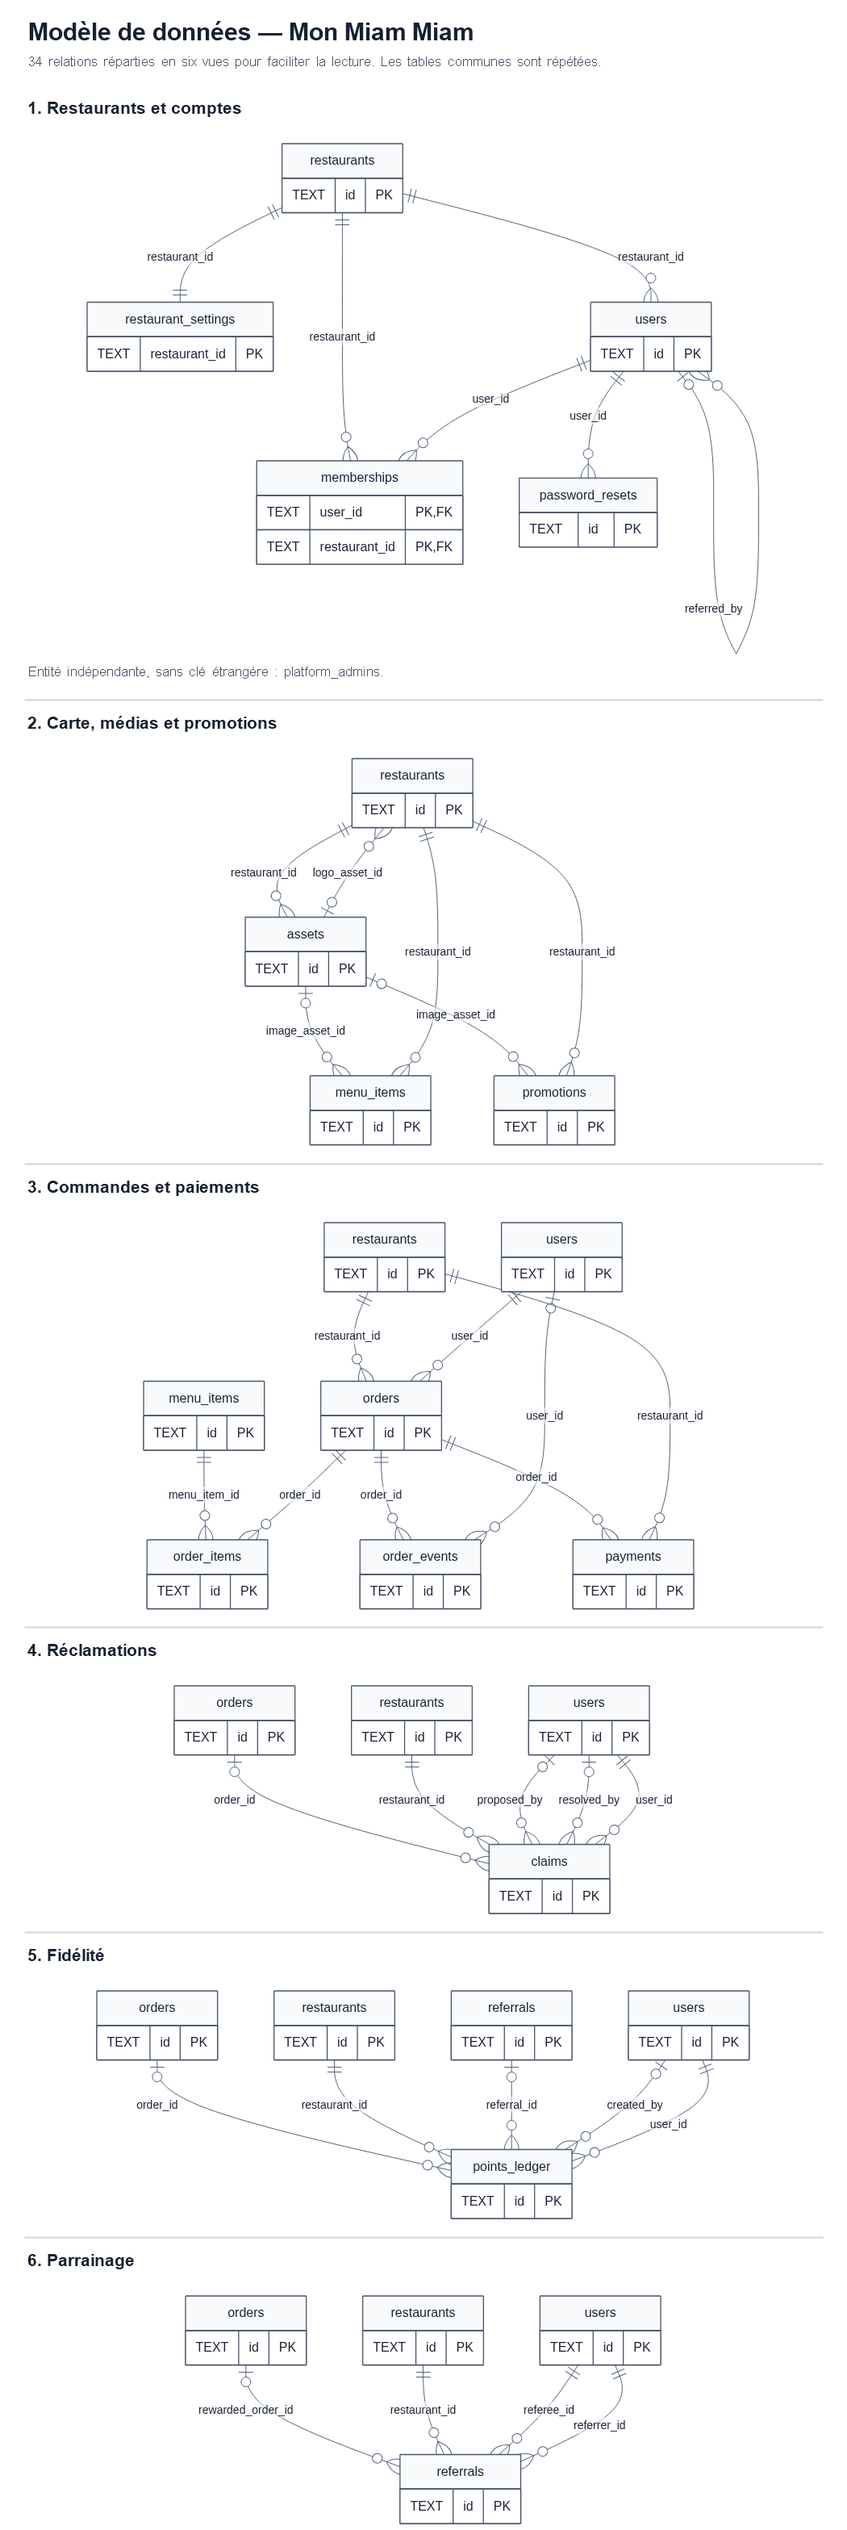
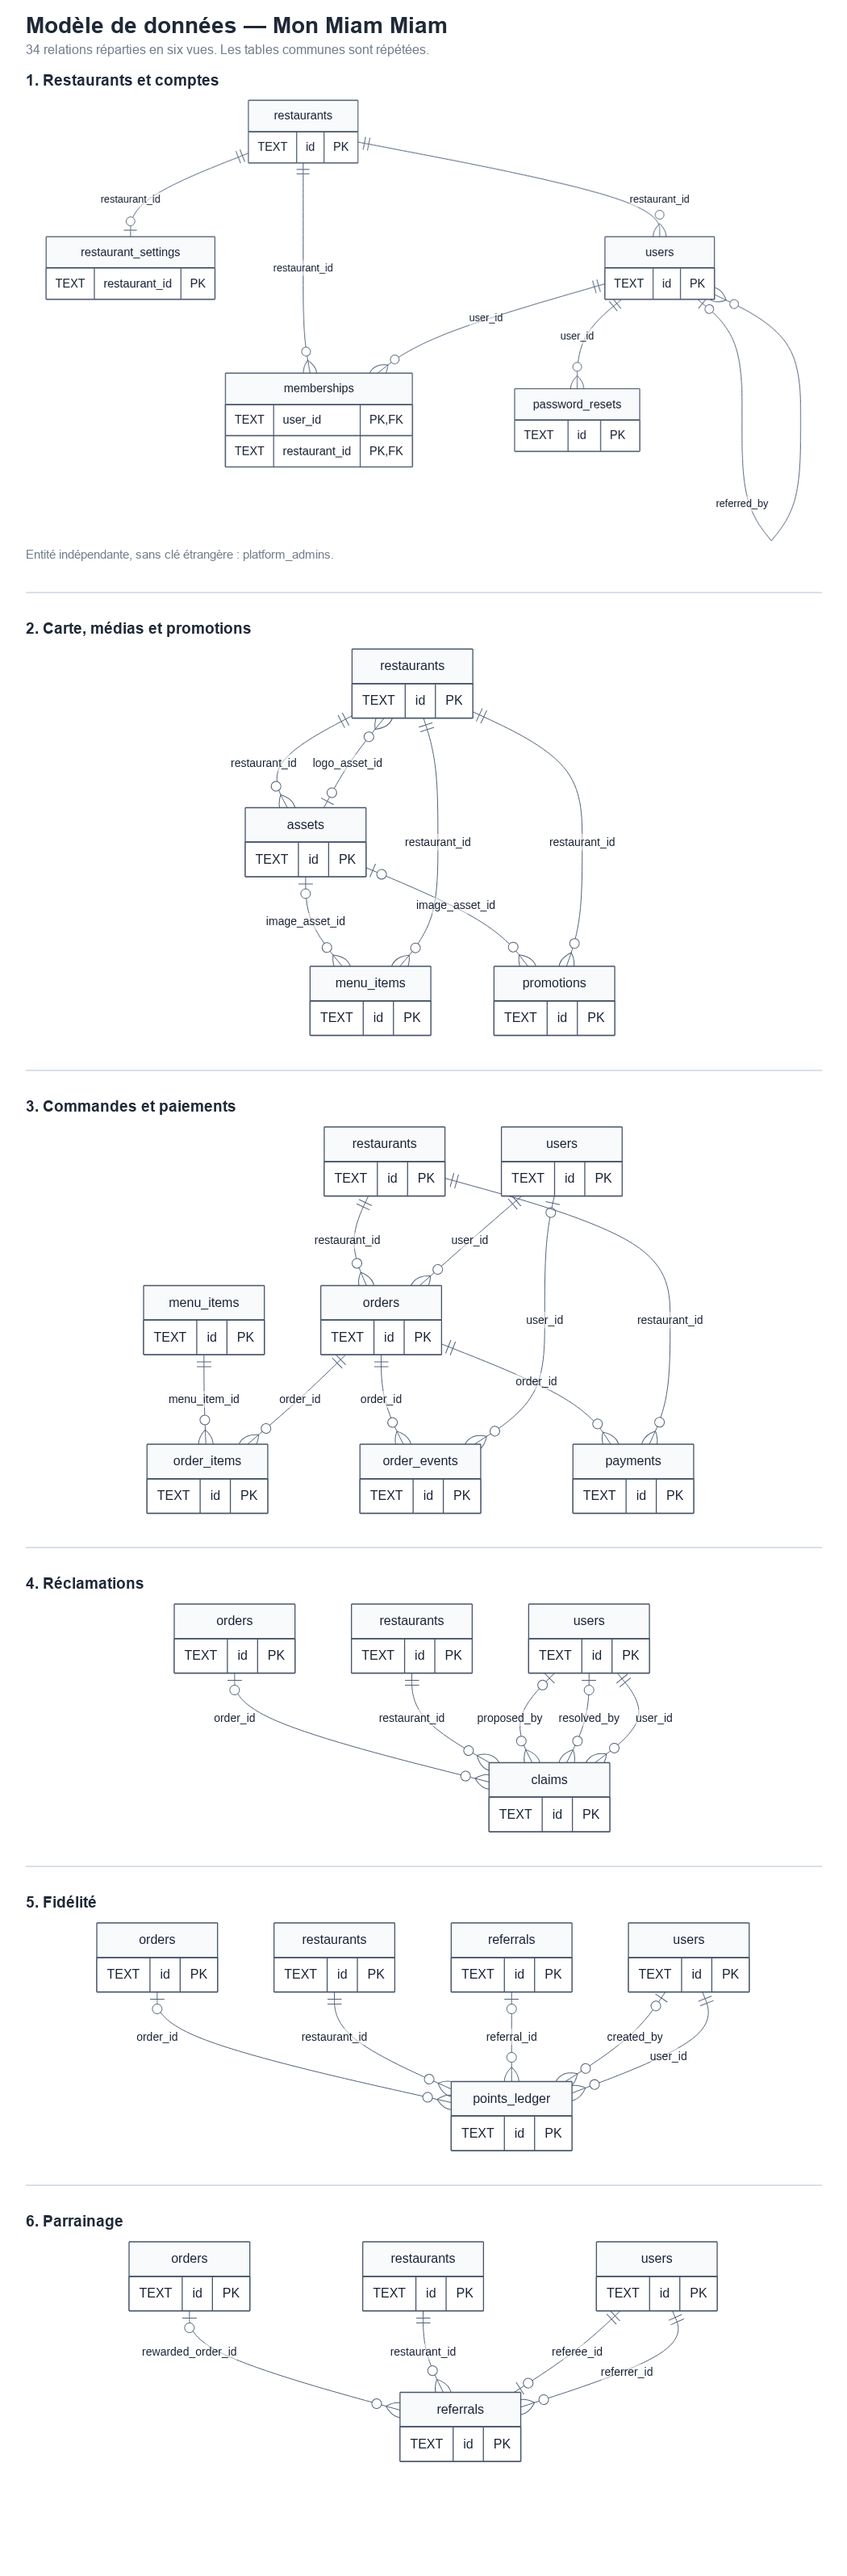
docs(donnees): valider les clés, les contraintes et la cohérence du modèle

diff --git a/docs/modele-de-donnees.md b/docs/modele-de-donnees.md
@@ -2,6 +2,10 @@
 
 Modèle conçu à partir du cahier des charges et des règles de la plateforme.
 
+Vue synthétique des 34 relations, réparties en six vues. Les détails des clés et des cardinalités suivent. Cliquez sur l'image pour l'ouvrir en pleine taille.
+
+[![Modèle de données — 34 relations en six vues](modele-de-donnees.png)](modele-de-donnees.png)
+
 ## 1. Entités et attributs
 
 ### Conventions
@@ -405,7 +409,7 @@ erDiagram
   restaurants ||--o{ points_ledger : restaurant_id
   restaurants ||--o{ promotions : restaurant_id
   restaurants ||--o{ referrals : restaurant_id
-  restaurants ||--|| restaurant_settings : restaurant_id
+  restaurants ||--o| restaurant_settings : restaurant_id
   restaurants ||--o{ users : restaurant_id
   referrals |o--o{ points_ledger : referral_id
   users |o--o{ claims : proposed_by
@@ -417,14 +421,10 @@ erDiagram
   users ||--o{ password_resets : user_id
   users |o--o{ points_ledger : created_by
   users ||--o{ points_ledger : user_id
-  users ||--o{ referrals : referee_id
+  users ||--o| referrals : referee_id
   users ||--o{ referrals : referrer_id
   users |o--o{ users : referred_by
 ```
-
-Le PNG répartit ces relations en six vues pour faciliter la lecture. Certaines tables apparaissent dans plusieurs vues.
-
-![Modèle de données](modele-de-donnees.png)
 
 ### Liste des 34 relations
 
@@ -449,7 +449,7 @@ Le PNG répartit ces relations en six vues pour faciliter la lecture. Certaines 
 | 17 | `restaurants` | `points_ledger` | `points_ledger.restaurant_id` | 1 – 0..N |
 | 18 | `restaurants` | `promotions` | `promotions.restaurant_id` | 1 – 0..N |
 | 19 | `restaurants` | `referrals` | `referrals.restaurant_id` | 1 – 0..N |
-| 20 | `restaurants` | `restaurant_settings` | `restaurant_settings.restaurant_id` | 1 – 1 |
+| 20 | `restaurants` | `restaurant_settings` | `restaurant_settings.restaurant_id` | 1 – 0..1 |
 | 21 | `restaurants` | `users` | `users.restaurant_id` | 1 – 0..N |
 | 22 | `referrals` | `points_ledger` | `points_ledger.referral_id` | 0..1 – 0..N |
 | 23 | `users` | `claims` | `claims.proposed_by` | 0..1 – 0..N |
@@ -461,17 +461,104 @@ Le PNG répartit ces relations en six vues pour faciliter la lecture. Certaines 
 | 29 | `users` | `password_resets` | `password_resets.user_id` | 1 – 0..N |
 | 30 | `users` | `points_ledger` | `points_ledger.created_by` | 0..1 – 0..N |
 | 31 | `users` | `points_ledger` | `points_ledger.user_id` | 1 – 0..N |
-| 32 | `users` | `referrals` | `referrals.referee_id` | 1 – 0..N |
+| 32 | `users` | `referrals` | `referrals.referee_id` | 1 – 0..1 |
 | 33 | `users` | `referrals` | `referrals.referrer_id` | 1 – 0..N |
 | 34 | `users` | `users` | `users.referred_by` | 0..1 – 0..N |
 
 ### Cas particuliers
 
 - **`memberships`** : association plusieurs-à-plusieurs entre `users` et `restaurants`. Sa clé primaire est composée de `user_id` et `restaurant_id`; elle porte le reliquat de fidélité propre à l'adhésion.
-- **`restaurant_settings`** : relation 1–1 avec `restaurants`; sa clé primaire est aussi sa clé étrangère.
+- **`restaurant_settings`** : chaque ligne appartient à un restaurant et un restaurant peut avoir zéro ou une ligne de paramètres ; sa clé primaire est aussi sa clé étrangère.
 - **Images** : `restaurants.logo_asset_id`, `menu_items.image_asset_id` et `promotions.image_asset_id` référencent `assets.id`.
 - **Parrainage** : `points_ledger.referral_id` référence `referrals.id`; `users.referred_by` est une relation réflexive et `referrals` relie deux utilisateurs distincts par `referrer_id` et `referee_id`.
 - **Réclamations** : `claims.user_id` est obligatoire ; `order_id`, `proposed_by` et `resolved_by` sont facultatifs.
 - **Liens facultatifs** : `claims.order_id`, `claims.proposed_by`, `claims.resolved_by`, `order_events.user_id`, `points_ledger.order_id`, `points_ledger.referral_id`, `points_ledger.created_by`, `referrals.rewarded_order_id`, `users.referred_by`, ainsi que les trois références d'image vers `assets`.
 - **Cohérence entre restaurants** : toute commande, tout paiement, toute réclamation et toute ligne du journal de points doit appartenir au même restaurant que son parent. Cette règle est garantie par des tests automatisés couvrant les clés parentales et l'adhésion de l'étudiant au restaurant ; le seul `users.restaurant_id` ne suffit pas puisqu'il désigne le restaurant d'origine et que `memberships` autorise plusieurs restaurants.
 - **Administrateurs de plateforme** : `platform_admins` n'est rattachée à aucun restaurant.
+
+## 3. Validation des clés, des contraintes et de la cohérence
+
+Le modèle a été vérifié entre ses trois sections : les entités, les relations et les contraintes ci-dessous décrivent le même ensemble de 16 tables.
+
+### Contrôles réussis
+
+- [x] Les 16 entités et leurs attributs sont décrits.
+- [x] Les **34 clés étrangères** figurent dans le tableau et le diagramme ; les quatre relations ajoutées couvrent les trois références d'image et le lien de parrainage du journal de points.
+- [x] Chaque entité possède la clé primaire indiquée ci-dessous.
+- [x] Les montants sont exprimés en entiers FC ; les dates sont des textes ISO 8601 en UTC ; les booléens sont des entiers 0 ou 1.
+- [x] Le reliquat de fidélité est porté uniquement par `memberships`. `users.restaurant_id` désigne le restaurant d'origine de l'étudiant ou le restaurant de travail du personnel.
+- [x] L'e-mail et le téléphone des utilisateurs sont uniques sur toute la plateforme ; l'e-mail ne distingue pas les majuscules des minuscules.
+- [x] La réduction de fidélité par défaut est de 3 000 FC, conformément à la règle de 15 points pour 3 000 FC.
+- [x] La règle d'appartenance commune entre commande, paiement, réclamation, journal de points et leur restaurant parent est définie et sera couverte par des tests automatisés.
+
+### Clés primaires
+
+- `id` est la clé primaire de chaque table, sauf :
+  - `memberships` : clé composée `(user_id, restaurant_id)` ;
+  - `restaurant_settings` : `restaurant_id`.
+
+### Contraintes d'unicité
+
+- `restaurants.slug`.
+- `users.email` sans distinction de casse, unique sur toute la plateforme.
+- `users.phone`, unique sur toute la plateforme.
+- `users.referral_code`.
+- `orders(restaurant_id, order_number)`.
+- `orders(user_id, idempotency_key)`.
+- `password_resets.token_hash`.
+- `referrals.referee_id` : un filleul n'a qu'un seul parrain.
+- `platform_admins.email`.
+
+### Valeurs permises
+
+- `users.role` : `student`, `employee`, `manager`, `admin`.
+- `users.status` : `active`, `inactive`, `deleted`.
+- `orders.type` : `dine_in`, `delivery`.
+- `orders.status` : `pending`, `confirmed`, `preparing`, `ready`, `out_for_delivery`, `completed`, `cancelled`.
+- `orders.payment_method` : `cash`, `mobile_money`.
+- `orders.payment_status` : `unpaid`, `pending`, `paid`, `failed`, `refund_due`.
+- `payments.operator` : `mpesa`, `orange_money`, `airtel_money`, `africell_money`.
+- `payments.status` : `pending`, `paid`, `failed`.
+- `menu_items.category` : `plat`, `boisson`, `dessert`, `snack`.
+- `promotions.kind` : `promotion`, `event`, `game`.
+- `points_ledger.kind` : `earn`, `referral`, `redeem`, `expire`, `adjust`, `refund`.
+- `referrals.status` : `pending`, `rewarded`.
+- `claims.kind` : `order`, `points`, `other`.
+- `claims.status` : `open`, `pending_validation`, `resolved`.
+- `claims.proposed_decision` et `claims.decision` : `accept`, `refuse` lorsque ces colonnes ne sont pas vides.
+- `restaurants.status` et `platform_admins.status` : `active`, `inactive`.
+- `restaurants.default_mode` : `light`, `dark`, `system`.
+- `assets.kind` : `logo`, `poster`, `menu`.
+- Les booléens `restaurant_settings.delivery_enabled`, `users.must_change_password`, `menu_items.is_available`, `menu_items.is_daily` et `promotions.is_active` valent `0` ou `1`.
+
+### Contraintes numériques
+
+- Tous les montants en FC sont supérieurs ou égaux à zéro ; `payments.amount_fc` est strictement supérieur à zéro.
+- `order_items.quantity` est strictement supérieur à zéro.
+- `orders.points_redeemed` et `orders.points_earned` sont supérieurs ou égaux à zéro.
+- `orders.rating` est vide ou compris entre 1 et 5.
+- `points_ledger.points` est différent de zéro ; `points_ledger.remaining` est vide ou supérieur ou égal à zéro.
+- `referrals.reward_points` est supérieur ou égal à zéro.
+- `claims.requested_points` est vide ou strictement supérieur à zéro.
+- `restaurant_settings.spend_per_point_fc`, `points_per_meal` et `points_validity_months` sont strictement supérieurs à zéro.
+- `memberships.loyalty_remainder_fc` est supérieur ou égal à zéro.
+
+### Règles de calcul (tests)
+
+- `order_items.line_total_fc = order_items.unit_price_fc × order_items.quantity`.
+- `orders.total_fc = orders.subtotal_fc − orders.discount_fc + orders.delivery_fee_fc`.
+
+Ces calculs sont des règles métier à vérifier par des tests automatisés ; ils ne sont pas présentés comme des contraintes de base de données.
+
+### Points à corriger
+
+Aucun correctif structurel ne reste ouvert dans ce modèle. Les décisions des cinq constats sont intégrées : les références d'image et de parrainage sont déclarées ; le reliquat réside uniquement dans `memberships` ; le rattachement d'origine des utilisateurs est précisé ; la cohérence entre restaurants est confiée à des tests automatisés. La liste définitive des clés, valeurs et règles numériques résout la vérification des contraintes.
+
+### Questions pour l'équipe
+
+1. **Jeux et événements** : le cahier des charges prévoit des prix ou des points supplémentaires. Faut-il ajouter à `promotions` une colonne facultative `reward_points` (entier supérieur ou égal à zéro) et une table `participations` avec `promotion_id`, `user_id`, la date de participation, les points accordés et une clé unique `(promotion_id, user_id)` ?
+2. **Paiement** : le cahier des charges prévoit la carte bancaire et le paiement mobile, tandis que `payments.operator` est limité à quatre opérateurs mobiles. Faut-il ajouter `payments.method` (`card`, `mobile_money`) et rendre `operator` facultatif ?
+
+### Conclusion
+
+Le modèle documentaire couvre 16 entités et 34 relations, intègre les décisions sur les rattachements, la fidélité, les comptes uniques et les clés étrangères d'image et de parrainage. Les règles de calcul et de cohérence entre restaurants ont une méthode de validation définie. Les deux questions sur les récompenses de jeux et les moyens de paiement restent à trancher par l'équipe.
